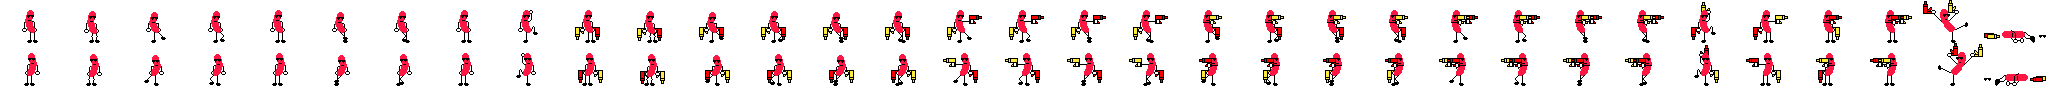
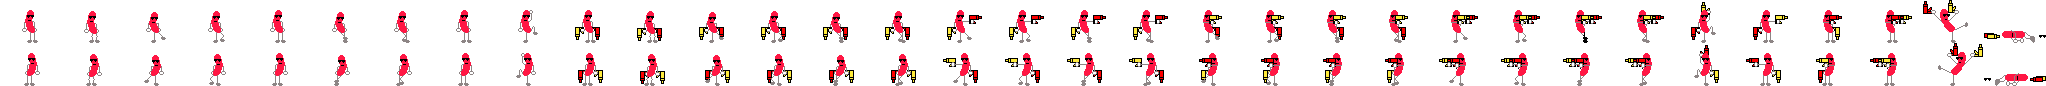
Hotdog arms and legs lighter

diff --git a/source/enemy.py b/source/enemy.py
@@ -1,0 +1,58 @@
+import character
+import pygame
+import math
+
+
+class Enemy(character.Character):
+
+    def __init__(self, pos_x: float, pos_y: float, current_action: str, sprite: dict = None, speed: float = 0.0, current_face: float = 0.0, base_speed: float = 1.0):
+
+        super().__init__(pos_x, pos_y, current_action,
+                         sprite, speed, current_face, base_speed)
+        g = self.global_variable
+
+        g["offense"] = {}
+        g["offense"]["knockback"] = 10.0
+
+    def update(self, delta_time: float, map: pygame.Surface):
+
+        g = self.global_variable
+
+        if (g["position"] - g["movement"]["vector"]).is_zero:
+            g["movement"]["speed"] = 0
+            g["animation"]["current_action"] = "standGun"
+            g["animation"]["current_face"] = 0
+        else:
+            g["movement"]["speed"] = g["movement"]["base_speed"]
+            if g["movement"]["vector_y_adjust"] != 0 and g["animation"]["current_action"] != "hurt":
+                g["animation"]["current_action"] = "jumpGun"
+            else:
+                g["animation"]["current_action"] = "walkGunNoShoot"
+            g["animation"]["current_face"] = self.direction(
+                g["movement"]["vector"])
+
+        if g["animation"]["timer"] > 0:
+            g["animation"]["timer"] -= delta_time
+            g["frame"] -= 1
+            self.animate(g["animation"]["current_action"],
+                         map, g["animation"]["current_face"])
+        else:
+            g["animation"]["timer"] = g["animation"]["timer_base"]
+            self.animate(g["animation"]["current_action"],
+                         map, g["animation"]["current_face"])
+
+        self.travel(g["movement"]["vector"], g["movement"]["speed"])
+        g["movement"]["vector"] = g["position"].copy()
+        g["movement"]["vector"].x += g["movement"]["vector_x_adjust"]
+        g["movement"]["vector"].y += g["movement"]["vector_y_adjust"]
+        g["movement"]["vector_y_adjust"] += g["movement"]["gravity"]
+        if g["movement"]["gravity"] == 0.0 and g["movement"]["vector_y_adjust"] >= 0:
+            g["movement"]["vector_y_adjust"] = 0.0
+
+        return g["alive"]
+
+    def get_animation(self):
+        return self.global_variable["animation"]["current_action"]
+
+    def jumping(self):
+        return self.global_variable["movement"]["vector_y_adjust"] < 0.0
